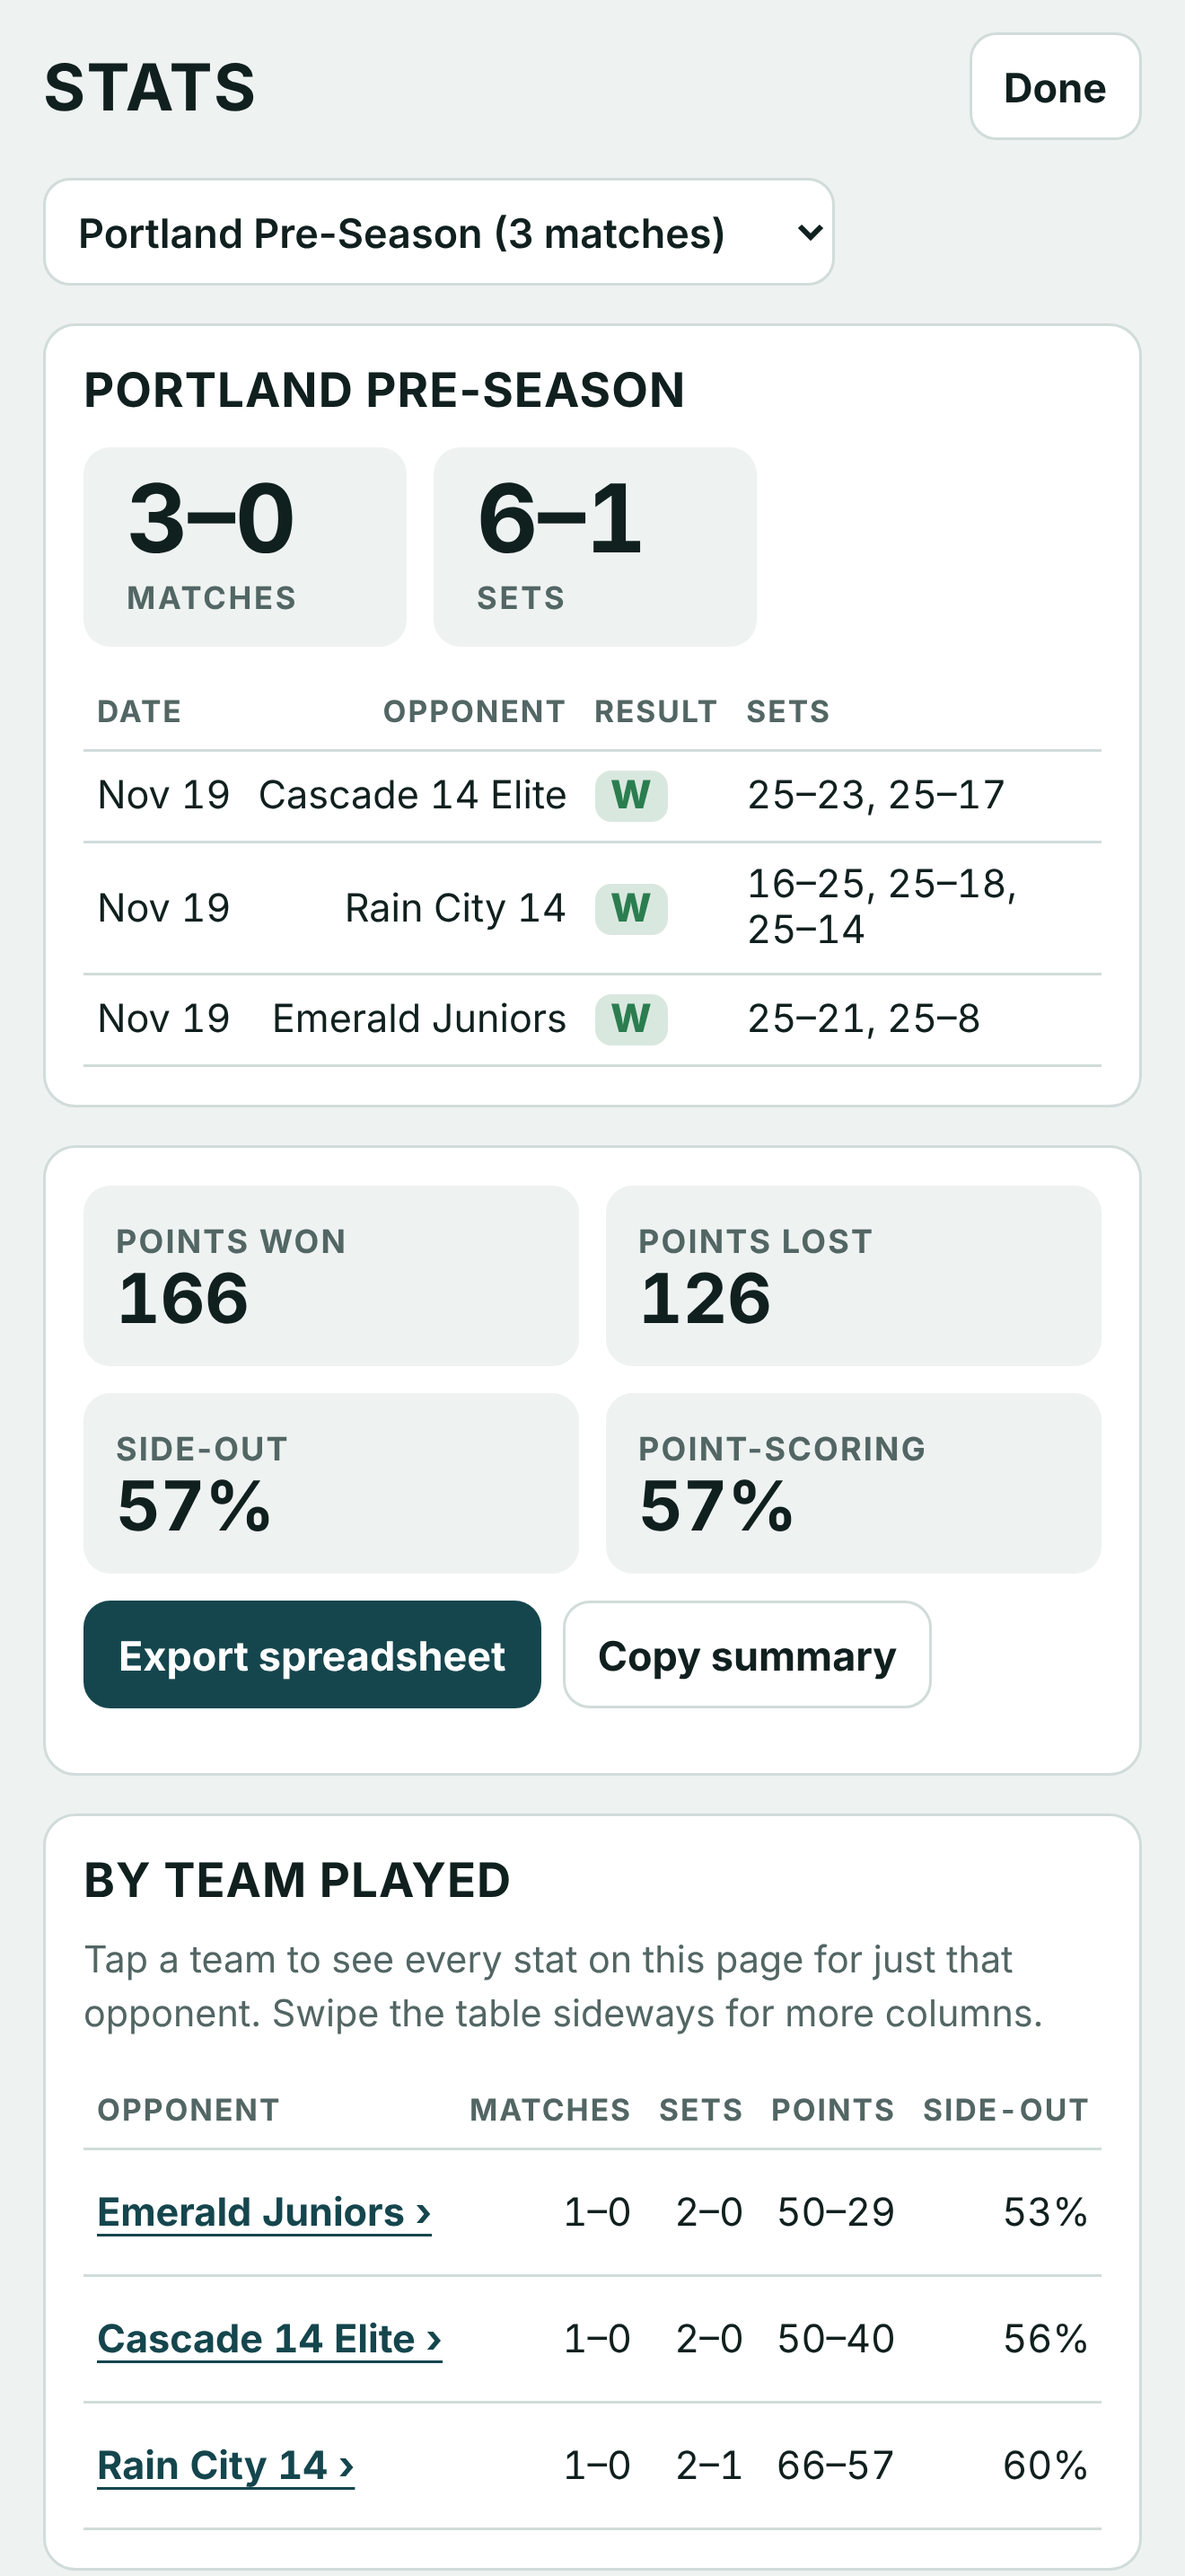
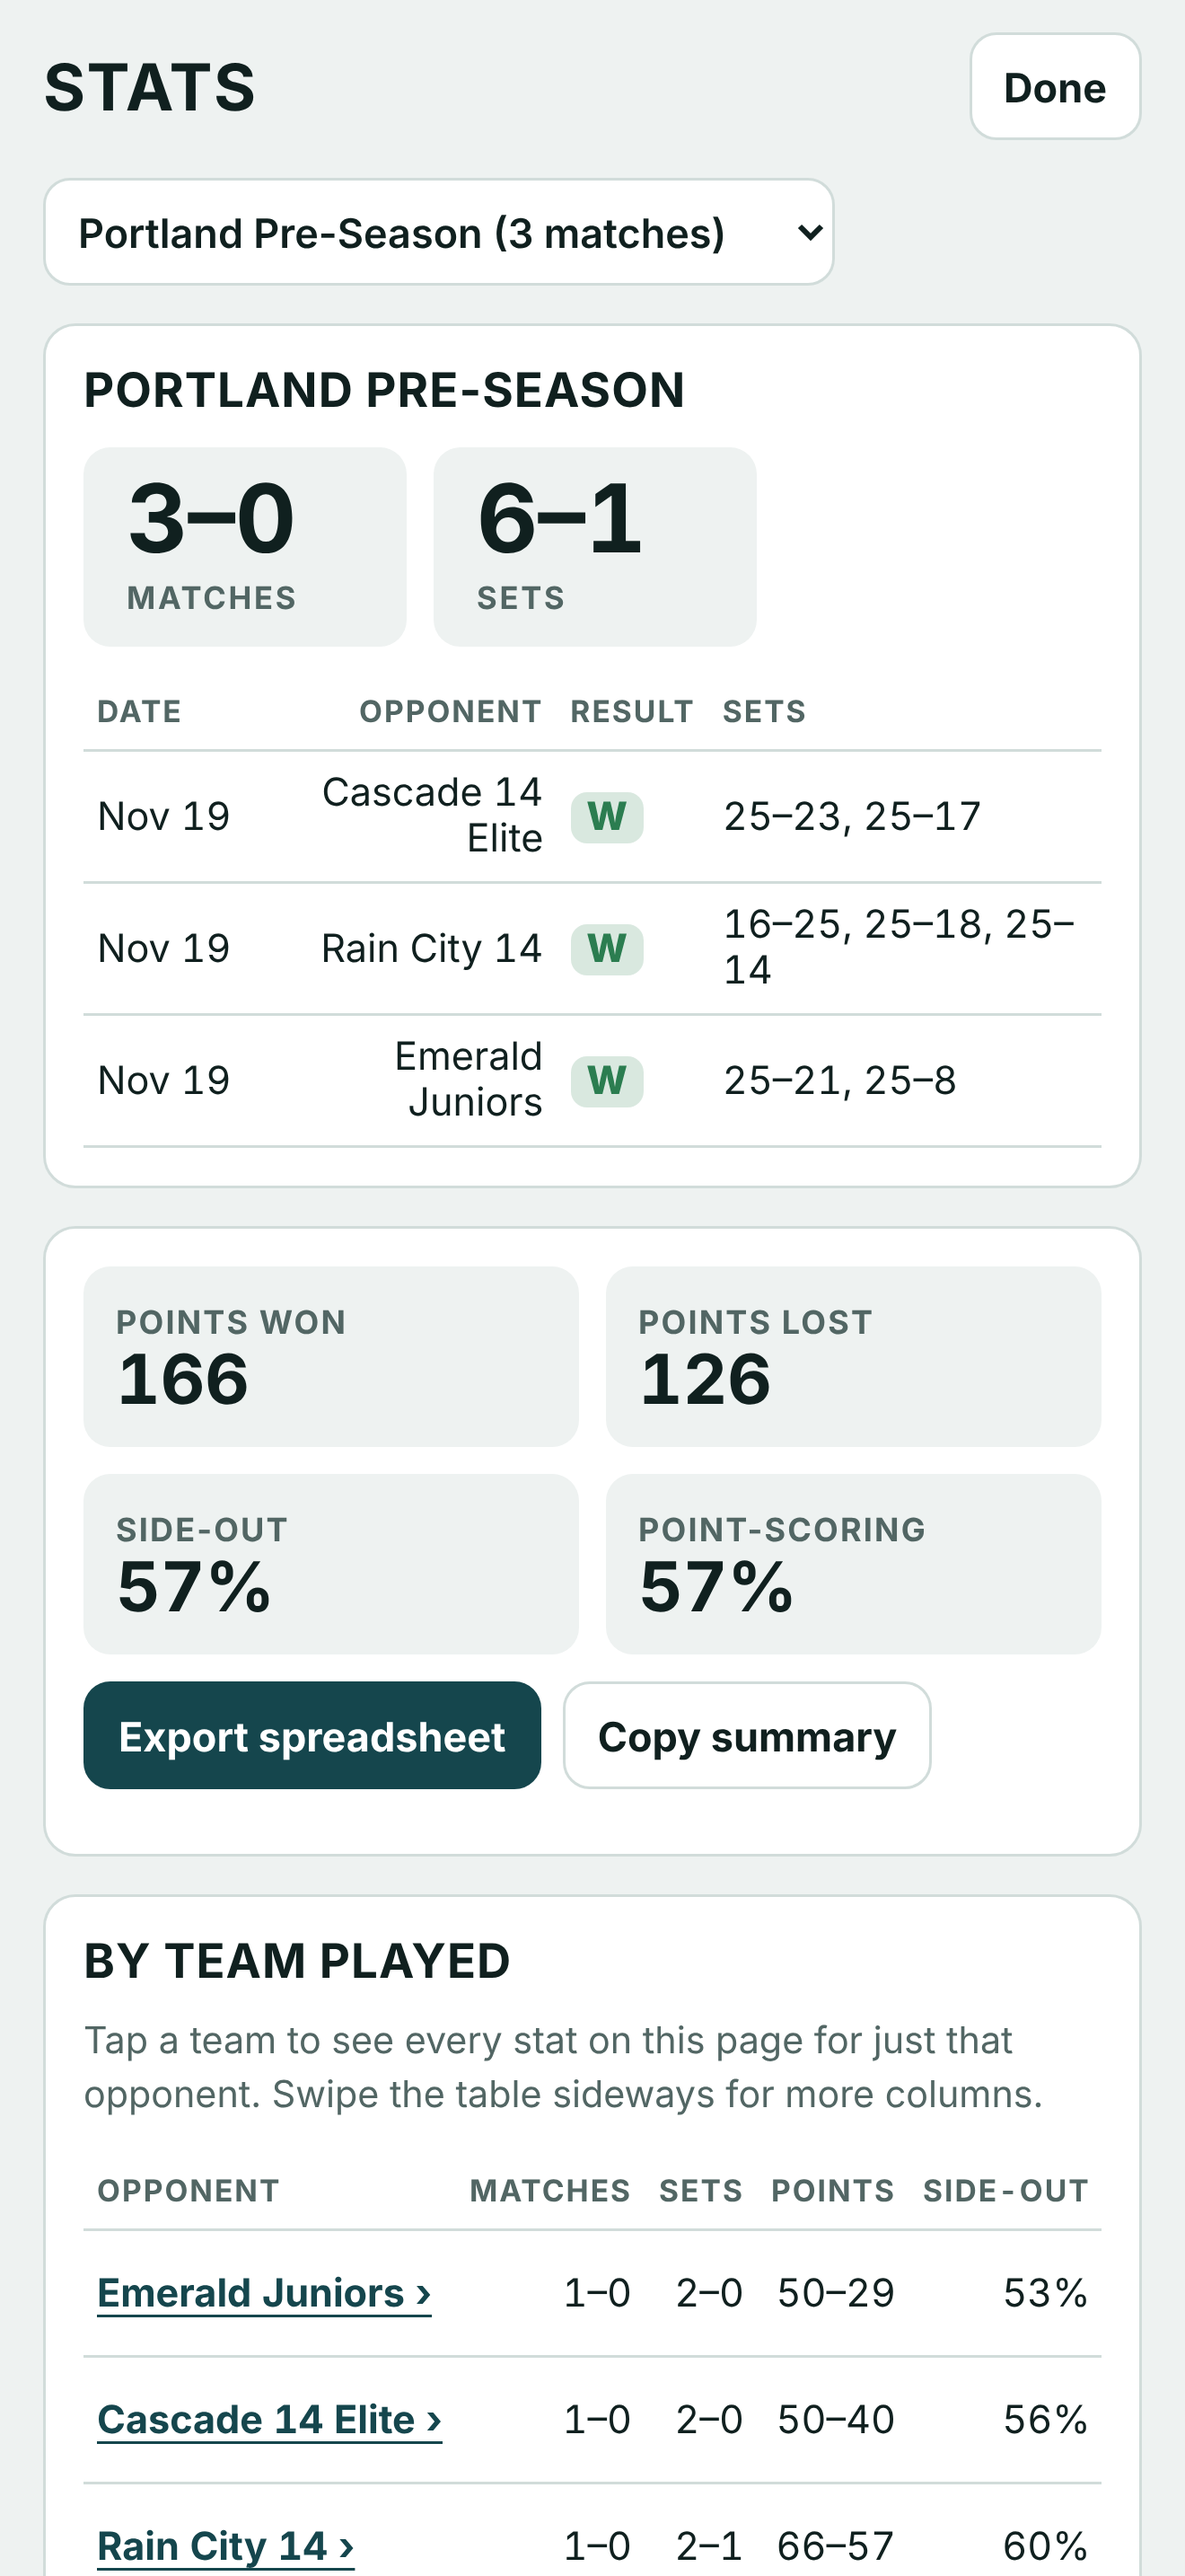
iPhone medium-display screenshots (1179x2556); wrap opponent names
Claude-Session: https://claude.ai/code/session_01XjvadqE4PRY1XXpJhyDyr2

diff --git a/www/index.html b/www/index.html
@@ -309,7 +309,8 @@ body.focus.matchon .courtscroll{width:min(100%,(100dvh - 312px - env(safe-area-i
 .opp-runs th:nth-child(n+2),.opp-runs td:nth-child(n+2){text-align:left}
 
 .rec-big{display:flex;gap:10px;flex-wrap:wrap}
-.rec-card td:last-child,.rec-card th:last-child{white-space:normal;text-align:left;min-width:7.5em}
+.rec-card td:last-child,.rec-card th:last-child{white-space:normal;text-align:left;min-width:6.2em}
+.rec-card td:nth-child(2){white-space:normal}
 .rec-big div{background:var(--bg);border-radius:10px;padding:10px 16px;min-width:120px}
 .rec-big b{display:block;font-family:var(--display);font-size:2.2rem;line-height:1;font-variant-numeric:tabular-nums}
 .rec-big span{font-size:.72rem;text-transform:uppercase;letter-spacing:.08em;color:var(--muted);font-weight:700}

diff --git a/www/sw.js b/www/sw.js
@@ -1,6 +1,6 @@
 // Offline support. The page itself is loaded from the network first, so phones
 // get the newest version whenever they're online; the saved copy is used offline.
-const VERSION = "rotation-ready-v21";
+const VERSION = "rotation-ready-v22";
 const FILES = ["./", "index.html", "manifest.webmanifest", "icon-180.png", "icon-192.png", "icon-512.png"];
 self.addEventListener("install", e => {
   e.waitUntil(caches.open(VERSION).then(c => c.addAll(FILES)).then(() => self.skipWaiting()));
